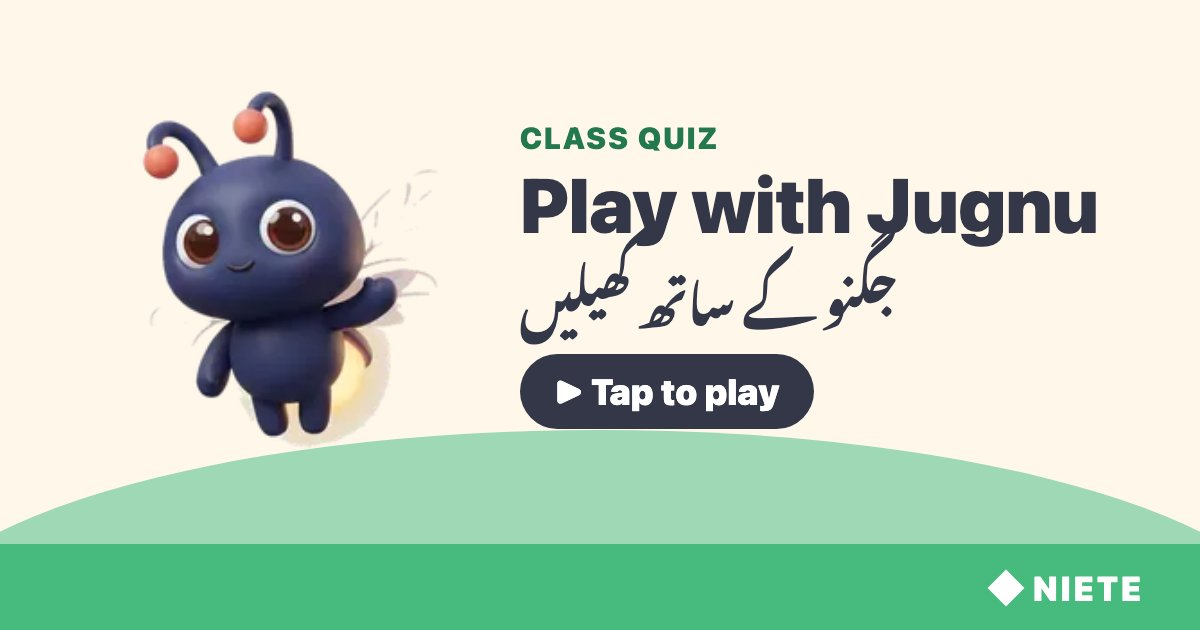
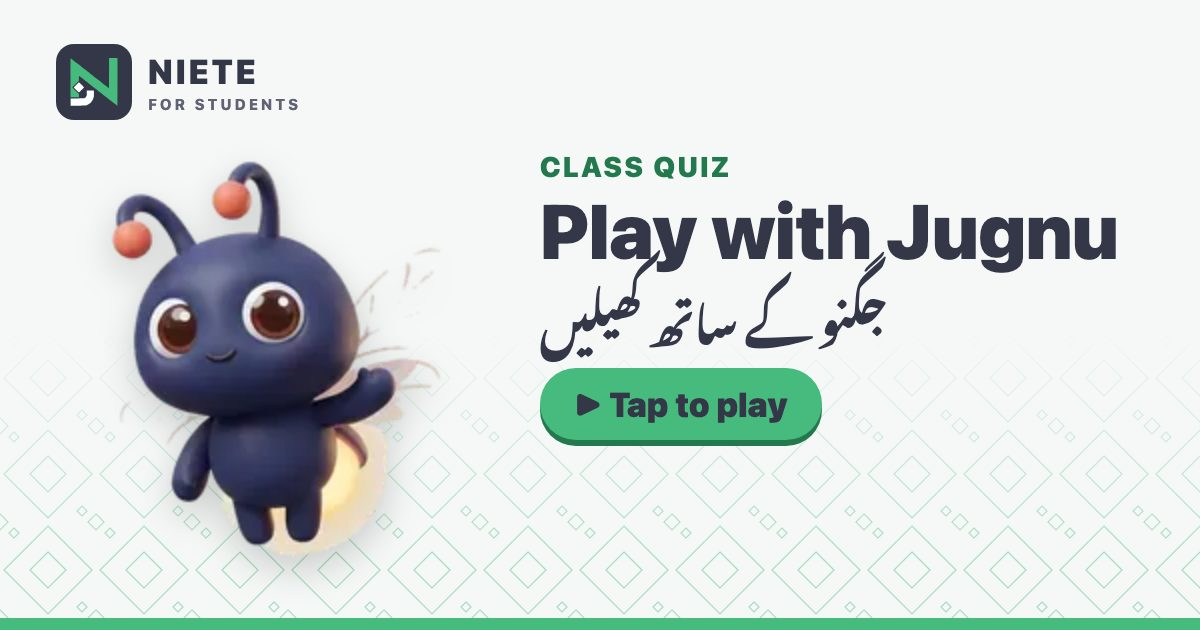
Web quiz: wear the configured brand on every screen
The bar is the brand lockup (NIETE: the app-icon monogram over FOR STUDENTS,
per the brand book's product-offering lockups; Rumi: the dots-and-smile mark).
wq.css gets brand tokens (--brand, --brand-ink, --ground, ...) with the old
names kept as aliases, a brand ground motif instead of the hill (the NIETE
diamond lattice), and semantic colours that never follow the brand. The
scorecard header, the share-preview images (one per brand) and the copy that
named the mascot or the city now read the brand config.

diff --git a/dashboard/public/wq/wq.js b/dashboard/public/wq/wq.js
@@ -425,16 +425,20 @@ if (typeof module !== 'undefined' && module.exports) module.exports = WQI;
   var LANG = Q.lang === 'ur' ? 'ur' : 'en';
   var CLS = B.cls || {};
   var LIVE = B.live || {};
+  // The deployment's brand (boot JSON, from bot/shared/config/web-quiz-brand.js): marks, names, mascot, place.
+  var BR = B.brand || null;
+  var MASC = (BR && BR.mascot) || { en: 'Jugnu', ur: 'جگنو' };
+  var PLACE = (BR && BR.place) || null;
   var params = (function () { var o = {}; try { new URLSearchParams(location.search).forEach(function (v, k) { o[k] = v; }); } catch (e) {} return o; })();
 
   /* ---------------- copy (en + ur). Jugnu speaks one short line per screen. ---------------- */
   var T = {
     en: {
-      quiz: 'NIETE QUIZ', from: function (t, c) { return [t ? 'From ' + t : '', c].filter(Boolean).join(' · '); },
+      quiz: 'QUIZ', from: function (t, c) { return [t ? 'From ' + t : '', c].filter(Boolean).join(' · '); },
       meta: function (n) { return n + ' questions · about ' + Math.max(1, Math.round(n * 0.6)) + ' minutes'; },
       hello: 'Assalam o Alaikum! Let\'s read it together.', helloN: function (n) { return 'Welcome back, ' + n + '!'; },
       play: 'Play', playAs: function (n) { return 'Play as ' + n; }, notMe: function (n) { return 'Not ' + n + '?'; },
-      proof: function (n) { return n.toLocaleString('en') + ' children in Islamabad played today'; },
+      proof: function (n) { return n.toLocaleString('en') + (PLACE ? ' children in ' + PLACE.en + ' played today' : ' children played today'); },
       classToday: function (n) { return n + ' in your class played today'; },
       whoT: 'Whose turn is it?', whoSay: 'Tap your name.', onPhone: 'On this phone', inClass: function (c) { return 'Find your name in ' + c; },
       newKid: "I'm new", newT: 'Hello! What is your first name?', newSay: 'Just your first name.', start: 'Start', privacy: 'Only first names. No phone numbers.',
@@ -447,9 +451,9 @@ if (typeof module !== 'undefined' && module.exports) module.exports = WQI;
       right: ['Yes! You found it.', 'You checked carefully!', 'Right! Well looked.', 'Yes! You kept going.', 'You got it!'],
       notyet: function (r) { return 'Not yet. The answer is "' + r + '".'; }, notyetLead: 'Not yet. The answer is', notyetPlain: 'Not yet.', next: 'Next', again: 'This one comes back at the end, to fix together.',
       half: 'Halfway there!',
-      tricky: function (n) { return n === 1 ? '1 tricky one' : n + ' tricky ones'; }, trickySay: "Before we celebrate, let's fix it together.", fixGo: 'Fix it with Jugnu', later: 'Maybe later',
-      second: 'Second try · with Jugnu', fixed: 'Fixed it!', tryAgain: 'Look again. You can do it.',
-      got: function (s, n) { return 'You got ' + s + ' out of ' + n; }, fixedLine: function (k) { return '+ fixed ' + k + ' tricky one' + (k > 1 ? 's' : '') + ' with Jugnu'; },
+      tricky: function (n) { return n === 1 ? '1 tricky one' : n + ' tricky ones'; }, trickySay: "Before we celebrate, let's fix it together.", fixGo: 'Fix it with ' + MASC.en, later: 'Maybe later',
+      second: 'Second try · with ' + MASC.en, fixed: 'Fixed it!', tryAgain: 'Look again. You can do it.',
+      got: function (s, n) { return 'You got ' + s + ' out of ' + n; }, fixedLine: function (k) { return '+ fixed ' + k + ' tricky one' + (k > 1 ? 's' : '') + ' with ' + MASC.en; },
       scoreNote: 'Your score is your first try.', praise: function (s, n) { return s === n ? 'Brilliant!' : s >= n * 0.8 ? 'Great work!' : 'Good try!'; },
       done: 'QUIZ COMPLETE', seeCard: 'See my card', classBtn: 'See my class',
       prac: 'This name already finished on another phone. This round is practice; your first finished score stays.',
@@ -459,7 +463,7 @@ if (typeof module !== 'undefined' && module.exports) module.exports = WQI;
       leagueT: function (c) { return c + ' league table'; }, you: 'YOU', moreN: function (n) { return n + ' more in the class'; },
       finN: function (n) { return n + ' finished'; }, yourScore: 'Your score', avg: 'Class average', firstOnly: 'First names only. Ties share a place.',
       shareTable: 'Share the class table', noRows: 'Nobody has finished yet. Be the first!',
-      histT: 'Your scores', todayT: 'Today in Islamabad', rest: 'Time to rest. See you tomorrow!', back: 'Back', sounds: 'Sounds',
+      histT: 'Your scores', todayT: PLACE ? 'Today in ' + PLACE.en : 'Today', rest: 'Time to rest. See you tomorrow!', back: 'Back', sounds: 'Sounds',
       cont: function (i, n) { return 'Continue ' + i + '/' + n; }, contSay: function (n) { return 'Welcome back, ' + n + '! Your answers are saved.'; }, restart: 'Start again',
       fbT: 'Send it on WhatsApp', fbSub: 'Tap the green button, then pick the chat.', fbWa: 'Send on WhatsApp', fbCopy: 'Copy the message', copied: 'Message copied',
       backAgain: 'Your answers are saved. Press back again to leave.',
@@ -473,11 +477,11 @@ if (typeof module !== 'undefined' && module.exports) module.exports = WQI;
       friends: 'Friends who finished', home: 'Home', yourClass: 'Your class', check: 'Check', pickAll: 'Tap every right answer, then Check.', previewPlay: 'Try it as a child'
     },
     ur: {
-      quiz: 'NIETE QUIZ', from: function (t, c) { return [t ? t + ' کی طرف سے' : '', c ? String(c).replace(/ /g, '\u00A0') : ''].filter(Boolean).join(' · '); },
+      quiz: 'کوئز', from: function (t, c) { return [t ? t + ' کی طرف سے' : '', c ? String(c).replace(/ /g, '\u00A0') : ''].filter(Boolean).join(' · '); },
       meta: function (n) { return n + ' سوال · تقریباً ' + Math.max(1, Math.round(n * 0.6)) + ' منٹ'; },
       hello: 'السلام علیکم! آئیں، مل کر پڑھیں۔', helloN: function (n) { return n + '، خوش آمدید!'; },
       play: 'کھیلیں', playAs: function (n) { return n + '، شروع کریں'; }, notMe: function (n) { return n + ' نہیں؟'; },
-      proof: function (n) { return 'آج اسلام آباد میں ' + n.toLocaleString('en') + ' بچوں نے کھیلا'; },
+      proof: function (n) { return 'آج ' + (PLACE ? PLACE.ur + ' میں ' : '') + n.toLocaleString('en') + ' بچوں نے کھیلا'; },
       classToday: function (n) { return 'آج آپ کی کلاس میں ' + n + ' نے کھیلا'; },
       whoT: 'آج کس کی باری ہے؟', whoSay: 'اپنے نام پر ٹیپ کریں۔', onPhone: 'اس فون پر', inClass: function (c) { return c + ' میں اپنا نام ڈھونڈیں'; },
       newKid: 'نیا نام', newT: 'السلام علیکم! آپ کا پہلا نام کیا ہے؟', newSay: 'صرف پہلا نام لکھیں۔', start: 'شروع کریں', privacy: 'صرف پہلا نام۔ فون نمبر نہیں۔',
@@ -490,9 +494,9 @@ if (typeof module !== 'undefined' && module.exports) module.exports = WQI;
       right: ['جی ہاں! آپ نے ڈھونڈ لیا۔', 'آپ نے غور سے دیکھا!', 'بالکل درست!', 'جی ہاں! آپ نے کوشش جاری رکھی۔', 'شاباش، درست!'],
       notyet: function (r) { return 'ابھی نہیں۔ صحیح جواب ہے: ' + r; }, notyetLead: 'ابھی نہیں۔ صحیح جواب ہے:', notyetPlain: 'ابھی نہیں۔', next: 'اگلا', again: 'یہ سوال آخر میں دوبارہ آئے گا، مل کر ٹھیک کرنے کے لیے۔',
       half: 'آدھا راستہ طے!',
-      tricky: function (n) { return n + ' مشکل سوال'; }, trickySay: 'جشن سے پہلے، آئیں اسے مل کر ٹھیک کریں۔', fixGo: 'جگنو کے ساتھ ٹھیک کریں', later: 'بعد میں',
-      second: 'دوسری کوشش · جگنو کے ساتھ', fixed: 'ٹھیک ہو گیا!', tryAgain: 'دوبارہ دیکھیں۔ آپ کر سکتے ہیں۔',
-      got: function (s, n) { return 'آپ نے ' + n + ' میں سے ' + s + (s === 1 ? ' درست کیا' : ' درست کیے'); }, fixedLine: function (k) { return 'جگنو کے ساتھ ' + k + ' مشکل سوال ٹھیک کیے'; },
+      tricky: function (n) { return n + ' مشکل سوال'; }, trickySay: 'جشن سے پہلے، آئیں اسے مل کر ٹھیک کریں۔', fixGo: MASC.ur + ' کے ساتھ ٹھیک کریں', later: 'بعد میں',
+      second: 'دوسری کوشش · ' + MASC.ur + ' کے ساتھ', fixed: 'ٹھیک ہو گیا!', tryAgain: 'دوبارہ دیکھیں۔ آپ کر سکتے ہیں۔',
+      got: function (s, n) { return 'آپ نے ' + n + ' میں سے ' + s + (s === 1 ? ' درست کیا' : ' درست کیے'); }, fixedLine: function (k) { return MASC.ur + ' کے ساتھ ' + k + ' مشکل سوال ٹھیک کیے'; },
       scoreNote: 'اسکور پہلی کوشش کا ہے۔', praise: function (s, n) { return s === n ? 'زبردست!' : s >= n * 0.8 ? 'بہت خوب!' : 'اچھی کوشش!'; },
       done: 'کوئز مکمل', seeCard: 'میرا کارڈ دیکھیں', classBtn: 'اپنی کلاس دیکھیں',
       prac: 'یہ نام کسی اور فون پر مکمل ہو چکا ہے۔ یہ باری مشق ہے؛ پہلا مکمل اسکور ہی رہے گا۔',
@@ -502,7 +506,7 @@ if (typeof module !== 'undefined' && module.exports) module.exports = WQI;
       leagueT: function (c) { return c + ' کی لیگ ٹیبل'; }, you: 'آپ', moreN: function (n) { return 'کلاس میں ' + n + ' اور'; },
       finN: function (n) { return n + ' نے مکمل کیا'; }, yourScore: 'آپ کا اسکور', avg: 'کلاس کی اوسط', firstOnly: 'صرف پہلے نام۔ برابر اسکور والوں کا نمبر ایک ہے۔',
       shareTable: 'کلاس ٹیبل بھیجیں', noRows: 'ابھی کسی نے مکمل نہیں کیا۔ سب سے پہلے کھیلیں!',
-      histT: 'آپ کے اسکور', todayT: 'آج اسلام آباد میں', rest: 'اب آرام کا وقت۔ کل پھر ملاقات ہوگی!', back: 'واپس', sounds: 'آوازیں',
+      histT: 'آپ کے اسکور', todayT: PLACE ? 'آج ' + PLACE.ur + ' میں' : 'آج', rest: 'اب آرام کا وقت۔ کل پھر ملاقات ہوگی!', back: 'واپس', sounds: 'آوازیں',
       cont: function (i, n) { return 'جاری رکھیں ' + i + '/' + n; }, contSay: function (n) { return n + '، خوش آمدید! آپ کے جواب محفوظ ہیں۔'; }, restart: 'نئے سرے سے شروع کریں',
       fbT: 'واٹس ایپ پر بھیجیں', fbSub: 'ہرا بٹن دبائیں، پھر چیٹ چنیں۔', fbWa: 'واٹس ایپ پر بھیجیں', fbCopy: 'پیغام کاپی کریں', copied: 'پیغام کاپی ہو گیا',
       backAgain: 'آپ کے جواب محفوظ ہیں۔ باہر جانے کے لیے دوبارہ بیک دبائیں۔',
@@ -709,8 +713,17 @@ if (typeof module !== 'undefined' && module.exports) module.exports = WQI;
     ROOT.setAttribute('data-m', moment);
     try { window.scrollTo(0, 0); } catch (e) {}
   }
+  // The brand mark (trusted inline SVG from the server's brand table) on its tile, or bare when it is a wide mark.
+  function markHtml() {
+    return BR ? '<span class="wq-mark ' + (BR.mark.tile ? 'wq-tile' : 'wq-bare') + '" aria-hidden="true">' + BR.mark.svg + '</span>' : '';
+  }
+  // The lockup: mark, name over the product line (the server always sends a brand; without one, just the product word).
+  function lockup() {
+    if (!BR) return '<span class="wq-brand"><span class="wq-lock"><b>' + esc(T.quiz) + '</b></span></span>';
+    return '<span class="wq-brand" aria-label="' + esc(BR.name) + '">' + markHtml() + '<span class="wq-lock"><b>' + esc(BR.label[LANG]) + '</b><small>' + esc(BR.sub[LANG]) + '</small></span></span>';
+  }
   function bar(extra) {
-    return '<div class="wq-bar"><span class="wq-brand"><i></i>' + esc(T.quiz) + '</span>' + (extra || '<span class="wq-grow"></span>') +
+    return '<div class="wq-bar">' + lockup() + (extra || '<span class="wq-grow"></span>') +
       '<button class="wq-icon" id="wq-snd" aria-label="' + esc(T.sounds) + '" aria-pressed="' + SOUND + '">' + (SOUND ? '🔔' : '🔕') + '</button></div>';
   }
   function wireBar() {
@@ -1435,7 +1448,7 @@ if (typeof module !== 'undefined' && module.exports) module.exports = WQI;
     var kept = c.practice && c.kept ? c.kept : null;
     var shareC = kept ? kept.correct : c.correct, shareT = kept ? (kept.total || total) : total;
     var h = bar() +
-      '<div class="wq-scorecard"><header><i></i>' + dotJoin('NIETE', CLS.label) + '</header><div class="wq-in">' +
+      '<div class="wq-scorecard"><header>' + markHtml() + dotJoin(BR ? BR.name : '', CLS.label) + '</header><div class="wq-in">' +
       '<img src="' + IMG + 'celebrate.webp" alt="">' +
       '<div class="wq-name">' + ani(c.animal) + ' ' + esc(c.first || (S.child && S.child.first) || '') + '</div>' +
       '<p class="wq-sub">' + esc(Q.topic) + '</p>' +

diff --git a/dashboard/public/wq/wq.css b/dashboard/public/wq/wq.css
@@ -1,13 +1,20 @@
-/* Web child quiz: Picture-book look. No framework, no build step. */
+/* Web child quiz. No framework, no build step.
+   BRAND tokens: the values below are the NIETE defaults; the server overrides them per deployment brand
+   in <style id="wq-brand"> (bot/shared/config/web-quiz-brand.js). Use the NAMES, never hex.
+   SEMANTIC tokens (right / not yet / stars / option shapes) are the same in every brand. */
 :root{
-  --green:#47BA7D;--green-d:#23794D;--green-l:#E3F5EA;
-  --navy:#333748;--ink:#2A2D3A;--muted:#5F6374;
-  --paper:#FFF8EA;--paper-2:#FFF1D6;--card:#FFFFFF;--line:#EADFC8;
-  --gold:#F6B73C;--gold-d:#B37A0C;--star-off:#E6DCC6;
+  --brand:#47BA7D;--brand-d:#23794D;--brand-l:#E3F5EA;
+  --brand-ink:#333748;--brand-ink-d:#1F2230;--brand-on:#333748;
+  --ground:#F5F8F6;--card:#FFFFFF;--line:#DCE5DF;--tint:#ECF4EF;--ink:#2A2D3A;--muted:#5F6374;
+  --mk1:#47BA7D;--mk2:#333748;--mk1-t:#47BA7D;--mk2-t:#FFFFFF;--deco:none;
+  /* aliases kept for the other sections of this file */
+  --green:var(--brand);--green-d:var(--brand-d);--green-l:var(--brand-l);--navy:var(--brand-ink);
+  --paper:var(--ground);--paper-2:var(--tint);
+  --gold:#F6B73C;--gold-d:#B37A0C;--star:var(--gold);--star-d:var(--gold-d);--star-off:#E2E5E3;
   --right:#23794D;--right-bg:#E3F5EA;--notyet:#9A6A08;--notyet-bg:#FFF2CF;
   --s1:#6D3FC0;--s2:#1F5FBF;--s3:#A3478F;--s4:#0E7C86;
   --s1-bg:#EEE8FA;--s2-bg:#E4ECFA;--s3-bg:#F6E6F1;--s4-bg:#E0F2F3;
-  --hill:#DCEFD9;--tap:48px;
+  --tap:48px;
   --f:system-ui,-apple-system,"Segoe UI",Roboto,sans-serif;
   --fu:"WQ Nastaliq",system-ui,-apple-system,"Segoe UI",Roboto,"Noto Nastaliq Urdu",sans-serif;
 }
@@ -26,14 +33,26 @@ html[lang=ur] .wq-icon,html[lang=ur] .wq-spk,html[lang=ur] .wq-emoji,html[lang=u
 button,input{font:inherit;color:inherit}
 img{max-width:100%}
 .wq-app{min-height:100vh;min-height:100dvh;max-width:480px;margin:0 auto;display:flex;flex-direction:column;position:relative;overflow-x:hidden}
-.wq-app::after{content:"";position:fixed;left:-30px;right:-30px;bottom:-70px;height:150px;border-radius:50% 50% 0 0;background:var(--hill);z-index:0;pointer-events:none}
+/* The brand's ground motif (NIETE: the diamond lattice; Rumi: dots and smiles), whisper-quiet, fading up from the bottom. */
+.wq-app::after{content:"";position:fixed;left:0;right:0;bottom:0;height:150px;background-image:var(--deco);background-size:auto;opacity:.32;-webkit-mask-image:linear-gradient(to top,#000 20%,transparent);mask-image:linear-gradient(to top,#000 20%,transparent);z-index:0;pointer-events:none}
 .wq-boot{flex:1;display:grid;place-items:center}
 .wq-screen{position:relative;z-index:1;flex:1;display:flex;flex-direction:column;gap:14px;padding:12px 16px 120px}
 .wq-closed{align-items:center;justify-content:center;text-align:center}
 .wq-closed h1{font-size:26px;color:var(--navy);margin:0}
 .wq-bar{display:flex;align-items:center;gap:8px;min-height:var(--tap)}
-.wq-brand{display:flex;align-items:center;gap:8px;font:900 13px var(--f);color:var(--navy);letter-spacing:.06em}
-.wq-brand i{width:12px;height:12px;background:var(--green);transform:rotate(45deg);display:inline-block}
+.wq-topbar{position:relative;z-index:1;padding:12px 16px 0}
+/* The brand lockup: the mark, the name over the product line (NIETE book p15: "FOR STUDENTS"). Always Latin, LTR. */
+.wq-brand{display:flex;align-items:center;gap:8px;color:var(--brand-ink);direction:ltr;font-family:var(--f)}
+.wq-mark{display:inline-block;line-height:0;flex:0 0 auto}
+.wq-mark svg{display:block;width:100%;height:100%}
+.wq-tile{width:34px;height:34px;padding:6px;border-radius:9px;background:var(--brand-ink);--mk1:var(--mk1-t);--mk2:var(--mk2-t)}
+.wq-bare{height:18px;width:auto;aspect-ratio:691/285}
+.wq-lock{display:flex;flex-direction:column;line-height:1.05}
+.wq-lock b{font:900 15px var(--f);letter-spacing:.08em}
+.wq-lock small{display:flex;align-items:center;gap:3px;font:800 9px var(--f);letter-spacing:.16em;color:var(--muted);text-transform:uppercase;margin-top:2px}
+.wq-tile+.wq-lock small::after{content:"";width:5px;height:5px;background:var(--brand);transform:rotate(45deg);box-shadow:7px 0 0 var(--brand);margin-inline-start:4px}
+.wq-scorecard header .wq-tile{width:26px;height:26px;padding:4px;border-radius:7px;background:transparent}
+.wq-scorecard header .wq-bare{height:14px;--mk1:var(--mk1-t);--mk2:var(--mk2-t)}
 .wq-grow{flex:1}
 .wq-icon{min-width:var(--tap);min-height:var(--tap);border-radius:50%;border:0;background:transparent;display:grid;place-items:center;cursor:pointer;color:var(--navy);font-size:22px}
 .wq-icon[aria-pressed=false]{opacity:.55}
@@ -60,9 +79,9 @@ html[lang=ur] .wq-say{font-weight:600;font-size:17px;line-height:1.95}
 .wq-card{background:var(--card);border-radius:20px;padding:14px;box-shadow:0 3px 0 var(--line)}
 .wq-btn{display:flex;align-items:center;justify-content:center;gap:10px;width:100%;min-height:60px;border-radius:18px;border:0;font-weight:900;font-size:20px;cursor:pointer;padding:8px 18px;text-decoration:none;text-align:center}
 html[lang=ur] .wq-btn{font-weight:700;font-size:19px;line-height:1.9}
-.wq-go{background:var(--green);color:var(--navy);box-shadow:0 5px 0 var(--green-d)}
+.wq-go{background:var(--brand);color:var(--brand-on);box-shadow:0 5px 0 var(--brand-d)}
 .wq-go:active{transform:translateY(3px);box-shadow:0 2px 0 var(--green-d)}
-.wq-navy{background:var(--navy);color:#fff;box-shadow:0 5px 0 #1F2230}
+.wq-navy{background:var(--brand-ink);color:#fff;box-shadow:0 5px 0 var(--brand-ink-d)}
 .wq-soft{background:var(--card);color:var(--navy);border:2px solid var(--line);min-height:52px;font-size:17px}
 .wq-ghost{background:transparent;color:var(--navy);min-height:48px;font-size:16px;font-weight:800;text-decoration:underline;text-underline-offset:4px}
 .wq-stack>*+*{margin-top:12px}
@@ -134,17 +153,16 @@ html[lang=ur] .wq-why{line-height:2.3}
 .wq-stars{display:flex;gap:6px;justify-content:center;flex-wrap:wrap}
 .wq-star{width:40px;height:40px}
 .wq-star path{fill:var(--star-off)}
-.wq-star.wq-on path{fill:var(--gold);stroke:var(--gold-d);stroke-width:1}
+.wq-star.wq-on path{fill:var(--star);stroke:var(--star-d);stroke-width:1}
 .wq-big{font-size:64px;font-weight:900;color:var(--navy);text-align:center;line-height:1}
 html[lang=ur] .wq-big:not(.wq-jug){font-family:var(--f)}
 .wq-center{text-align:center}
 .wq-scorecard{background:var(--card);border-radius:24px;box-shadow:0 4px 0 var(--line);overflow:hidden;text-align:center}
 .wq-scorecard header{background:var(--navy);color:#fff;padding:10px 14px;display:flex;align-items:center;gap:8px;font-weight:900;letter-spacing:.06em;font-size:13px}
-.wq-scorecard header i{width:12px;height:12px;background:var(--green);transform:rotate(45deg);display:inline-block}
 .wq-scorecard .wq-in{padding:14px;display:flex;flex-direction:column;gap:8px;align-items:center}
 .wq-scorecard img{width:110px;height:110px}
 .wq-name{font-size:26px;font-weight:900;color:var(--navy)}
-.wq-praise{font-size:22px;font-weight:900;color:var(--green-d)}
+.wq-praise{font-size:22px;font-weight:900;color:var(--right)}
 .wq-table{width:100%;border-collapse:separate;border-spacing:0 6px}
 .wq-table td{background:var(--card);padding:10px 8px;font-weight:800;font-size:17px}
 .wq-table td:first-child{border-start-start-radius:12px;border-end-start-radius:12px;width:44px;text-align:center;color:var(--muted)}

diff --git a/bot/shared/config/web-quiz-brand.js b/bot/shared/config/web-quiz-brand.js
@@ -41,9 +41,10 @@ const NIETE_LATTICE = '<svg xmlns="http://www.w3.org/2000/svg" width="96" height
   + '<path d="M0 -8 8 0 0 8 -8 0Z"/><path d="M96 -8 104 0 96 8 88 0Z"/><path d="M0 88 8 96 0 104 -8 96Z"/><path d="M96 88 104 96 96 104 88 96Z"/>'
   + '<path d="M14 6 19 11 14 16 9 11Z"/><path d="M82 80 87 85 82 90 77 85Z"/></svg>';
 // The Rumi motif: a quiet constellation of small dots joined by thin smile curves.
-const RUMI_MOTIF = '<svg xmlns="http://www.w3.org/2000/svg" width="120" height="96" viewBox="0 0 120 96" fill="#0E2058" stroke="#0E2058" stroke-width="1.2">'
-  + '<circle cx="18" cy="30" r="3"/><circle cx="50" cy="30" r="3"/><path d="M18 30Q34 50 50 30" fill="none"/>'
-  + '<circle cx="78" cy="70" r="2.4"/><circle cx="104" cy="70" r="2.4"/><path d="M78 70Q91 86 104 70" fill="none"/></svg>';
+const RUMI_MOTIF = '<svg xmlns="http://www.w3.org/2000/svg" width="260" height="150" viewBox="0 0 260 150" fill="#0E2058" stroke="#0E2058" stroke-width="1.2">'
+  + '<circle cx="24" cy="40" r="3"/><circle cx="56" cy="40" r="3"/><path d="M24 40Q40 60 56 40" fill="none"/>'
+  + '<circle cx="170" cy="112" r="2.4"/><circle cx="196" cy="112" r="2.4"/><path d="M170 112Q183 128 196 112" fill="none"/>'
+  + '<circle cx="120" cy="22" r="1.6"/><circle cx="232" cy="58" r="1.6"/></svg>';
 
 const BRANDS = {
   niete: {
@@ -71,7 +72,8 @@ const BRANDS = {
     name: 'Rumi',
     orgNames: ['rumi', 'rumi global'],
     label: { en: 'Rumi', ur: 'Rumi' },
-    sub: { en: 'QUIZ', ur: 'کوئز' },
+    // The lockup is part of the logo: Latin in both languages (a 9px Nastaliq line is unreadable).
+    sub: { en: 'QUIZ', ur: 'QUIZ' },
     mascot: { en: 'Jugnu', ur: 'جگنو' },
     place: null,
     og: { image: '/wq/og-rumi.jpg', site: 'Rumi' },
